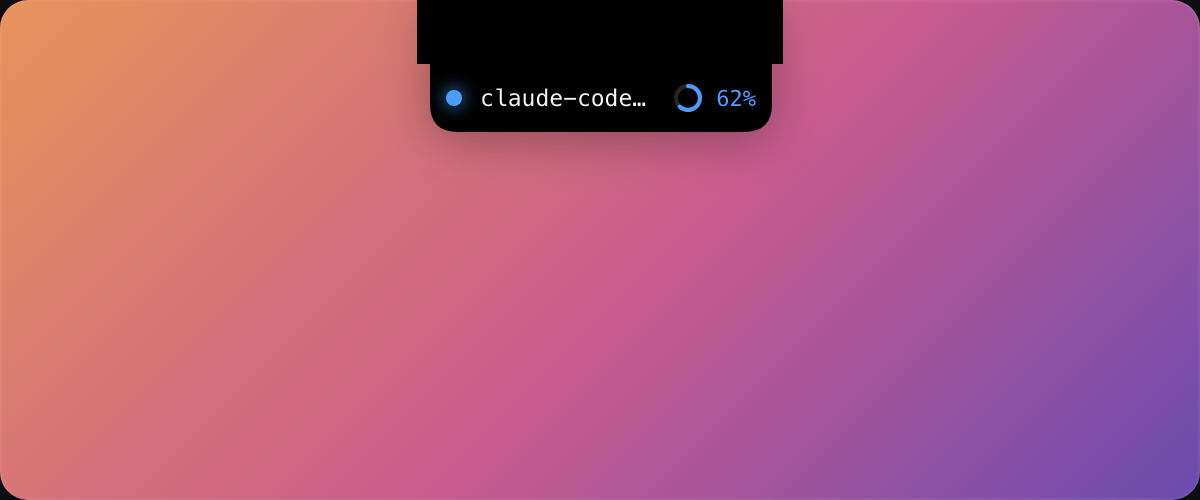
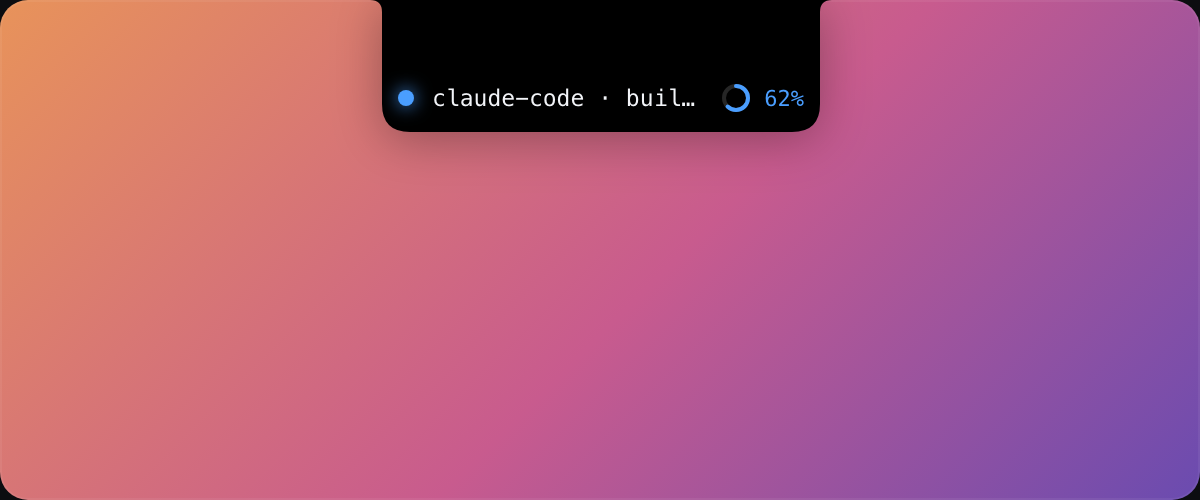
fix(island): match the revealed pill width to the ambient wings (seamless hover) [skip ci]
Covering the notch co-located the ambient wings and the revealed pill at the screen
top; they had different widths (wings cutout+2*24=231, pill = cutout 183), so hovering
visibly retracted the 24px wing stubs on each side (a 48px sideways pull-in).

effectiveIslandSettings now sizes the compact pill to the ambient-wings width, so the
idle wings and the revealed pill share the exact top band - hover only drops the
content strip in, no width change. Verified: both render 231 wide, identically
centered on the cutout. 226 vitest + tsc green; docs image refreshed.

Changed region(s): [[0.3083, 0.0, 0.7092, 0.27]]

diff --git a/src/lib/islandMorph.ts b/src/lib/islandMorph.ts
@@ -36,13 +36,14 @@ export interface NotchGeometry {
 }
 
 /** Adopt the physical notch geometry into the COMPACT geometry the morph controller targets so the
- *  collapsed pill COVERS the physical cutout (T13; option A): the compact pill width is EXACTLY the
- *  cutout width (so its black shape reads as the notch itself) and its height is at least the cutout
- *  height. The shape then covers the notch from the screen top via the controller's notch cap
- *  (`setNotchCap`) plus the `.di-content` top padding, NOT a down-offset. Float mode and the
- *  no-geometry case (jsdom/tests, pre-event) return the settings unchanged, so every existing float
- *  baseline is byte-identical. Threaded through the SAME configure/applySettings path settings take -
- *  never a parallel one. */
+ *  collapsed pill COVERS the physical cutout (T13; option A): the compact pill width MATCHES the
+ *  ambient-wings width (cutout + one wing per side) so the idle wings and the revealed pill share the
+ *  exact same top band - hovering only drops the content strip in, with no sideways stub retraction.
+ *  Its height is at least the cutout height. The shape then covers the notch from the screen top via
+ *  the controller's notch cap (`setNotchCap`) plus the `.di-content` top padding, NOT a down-offset.
+ *  Float mode and the no-geometry case (jsdom/tests, pre-event) return the settings unchanged, so every
+ *  existing float baseline is byte-identical. Threaded through the SAME configure/applySettings path
+ *  settings take - never a parallel one. */
 export function effectiveIslandSettings(
   settings: IslandSettings,
   mode: IslandMode,
@@ -51,7 +52,7 @@ export function effectiveIslandSettings(
   if (mode !== "notch" || !geo) return settings;
   return {
     ...settings,
-    compactWidth: geo.widthLogical,
+    compactWidth: ambientWingsSize(geo).width,
     height: Math.max(settings.height, geo.heightLogical),
   };
 }

diff --git a/src/lib/islandGeometry.test.ts b/src/lib/islandGeometry.test.ts
@@ -14,11 +14,13 @@ import { DEFAULT_ISLAND_SETTINGS } from "@/types/islandSettings";
 // hardware measurement is a 183 x 32 cutout.
 const G1: NotchGeometry = { widthLogical: 183, heightLogical: 32 };
 
-describe("effectiveIslandSettings (under-notch sizing)", () => {
-  it("takes the cutout width and at least the cutout height in notch mode", () => {
+describe("effectiveIslandSettings (cover-the-notch sizing)", () => {
+  it("takes the ambient-wings width and at least the cutout height in notch mode", () => {
     const eff = effectiveIslandSettings(DEFAULT_ISLAND_SETTINGS, "notch", G1);
-    // Width is EXACTLY the cutout width so the pill reads as a second notch.
-    expect(eff.compactWidth).toBe(183);
+    // Width MATCHES the ambient wings (cutout 183 + 2*24 wings = 231) so the idle
+    // wings and the revealed pill share the top band - hover has no width jump.
+    expect(eff.compactWidth).toBe(231);
+    expect(eff.compactWidth).toBe(ambientWingsSize(G1).width);
     // Height is max(userHeight, cutoutHeight); the 34 default already clears 32.
     expect(eff.height).toBe(Math.max(DEFAULT_ISLAND_SETTINGS.height, 32));
     // Everything else is untouched (expanded width, radii, accent, ...).

diff --git a/src/components/island/IslandNotch.test.tsx b/src/components/island/IslandNotch.test.tsx
@@ -118,9 +118,10 @@ describe("Island under-notch layout (T13/T14)", () => {
     expect(screen.getByTestId("island-ambient")).toHaveAttribute("data-visible", "false");
   });
 
-  it("takes the cutout width for the compact pill (second-notch sizing)", () => {
-    // The controller writes the effective width imperatively; the pill is exactly
-    // the 183pt cutout width, not the 218 default.
+  it("takes the ambient-wings width for the compact pill (seamless hover-reveal)", () => {
+    // The controller writes the effective width imperatively; the pill matches the
+    // ambient wings (cutout 183 + 2*24 = 231), NOT the bare cutout width, so the
+    // idle wings and the revealed pill share the top band (no sideways jump on hover).
     render(
       <Island
         notification={makeNotification()}
@@ -129,7 +130,7 @@ describe("Island under-notch layout (T13/T14)", () => {
         notchGeometry={G1}
       />
     );
-    expect(screen.getByTestId("island").style.width).toBe("183px");
+    expect(screen.getByTestId("island").style.width).toBe("231px");
   });
 
   it("covers the notch: compact height is the strip + the cutout cap (option A)", () => {
